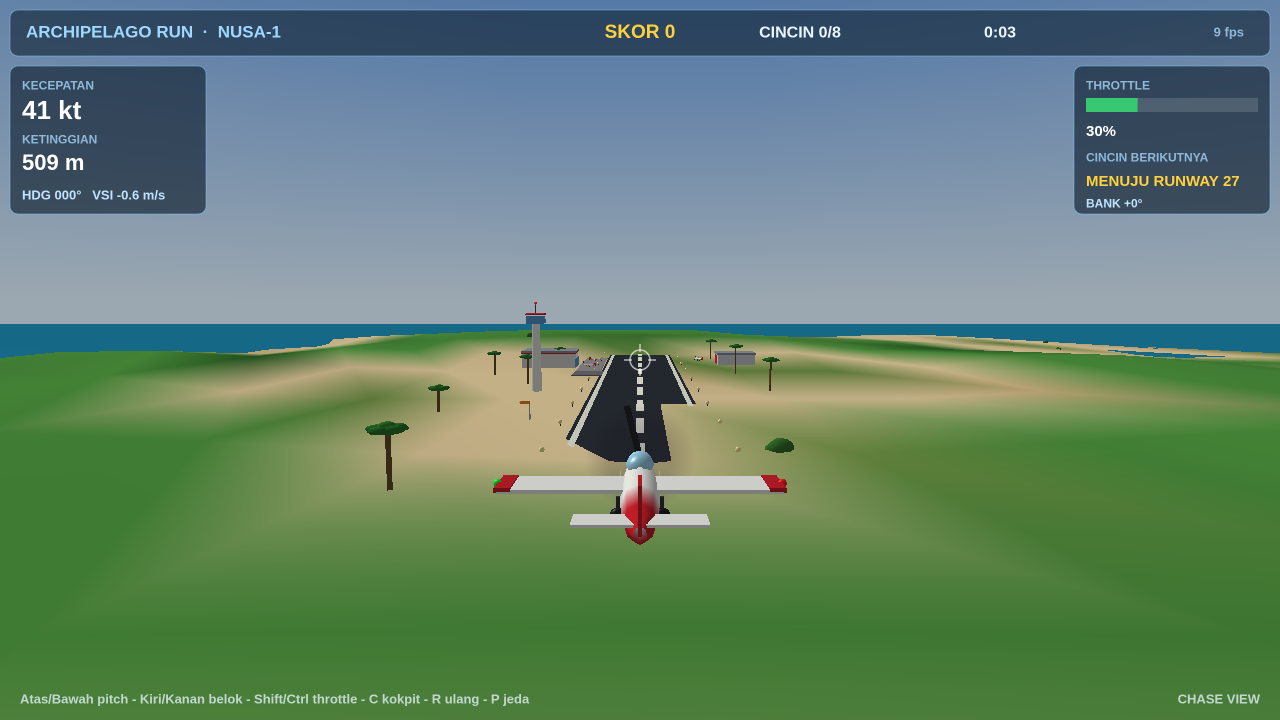
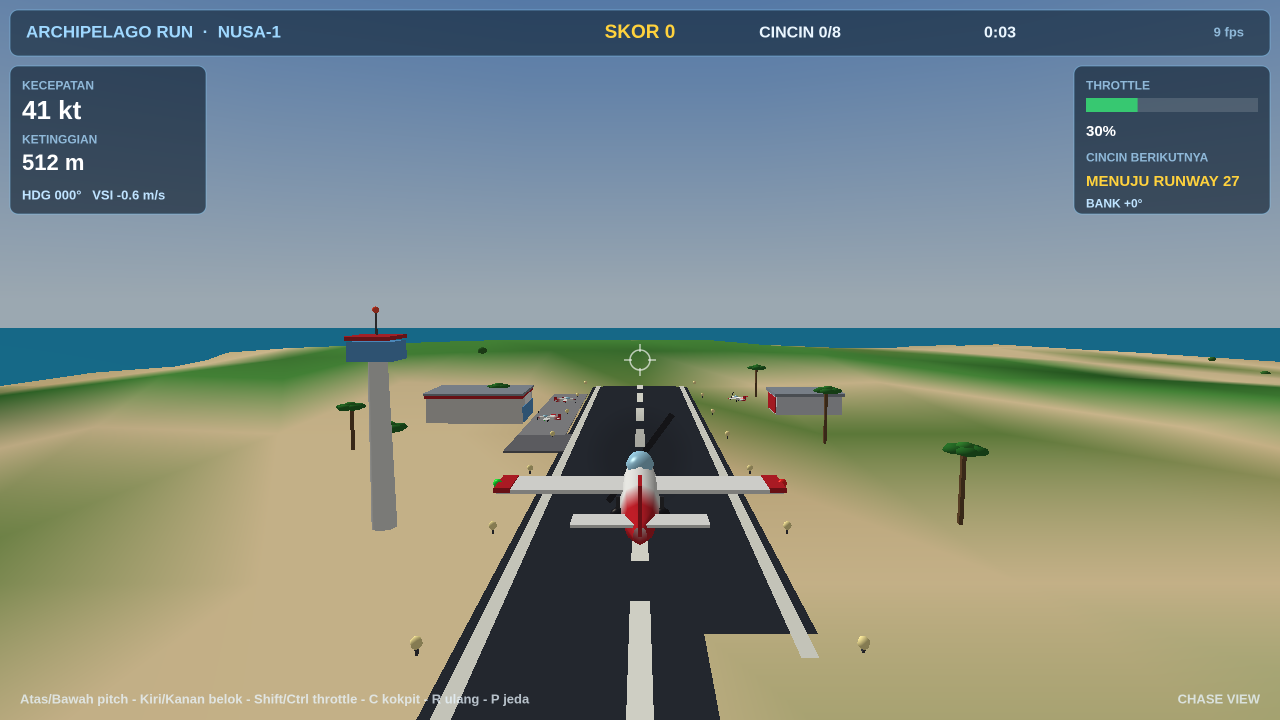
flight v2: landing shot — plane now ON the black runway
- The user meant the BLACK road (the asphalt runway): in every
  landing framing so far the plane sat on sand SHORT of the strip,
  so the black road ended mid-frame before the plane and read as cut
  off. Landing preset moved past the threshold (z 8435 -> 8700):
  at shot time the plane is over the runway on final approach and
  the black strip runs unbroken from the bottom edge of the frame
  all the way to the far end at the horizon, centerline + edge
  lines the whole way, plane sitting on it
- Takeoff shot re-quantized to 92 KB after the re-shoot (cap 256 KiB)

diff --git a/game/index.html b/game/index.html
@@ -1328,7 +1328,7 @@ addEventListener('mousemove',e=>{mouseX=e.clientX/innerWidth;mouseActive=perform
 const scene=qs.get('scene');
 if(scene==='takeoff'){S.started=true;S.mode='flying';S.x=300;S.y=130;S.z=-450;S.heading=-0.45;S.speed=25;S.throttle=0.3;S.pitch=-0.02;}
 else if(scene==='ring'){S.started=true;S.mode='flying';S.x=380;S.y=230;S.z=2700;S.heading=0.2;S.pitch=-0.02;S.speed=70;S.throttle=0.7;S.nextRing=2;S.rings=2;S.score=200;}
-else if(scene==='landing'){S.started=true;S.mode='flying';S.x=0;S.y=55;S.z=8435;S.speed=40;S.throttle=0.3;S.pitch=-0.06;S.nextRing=8;}
+else if(scene==='landing'){S.started=true;S.mode='flying';S.x=0;S.y=55;S.z=8700;S.speed=40;S.throttle=0.3;S.pitch=-0.06;S.nextRing=8;}
 else if(scene==='cockpit'){S.started=true;S.view='cockpit';S.throttle=0.6;S.speed=30;}
 
 // ---------- main loop ----------
